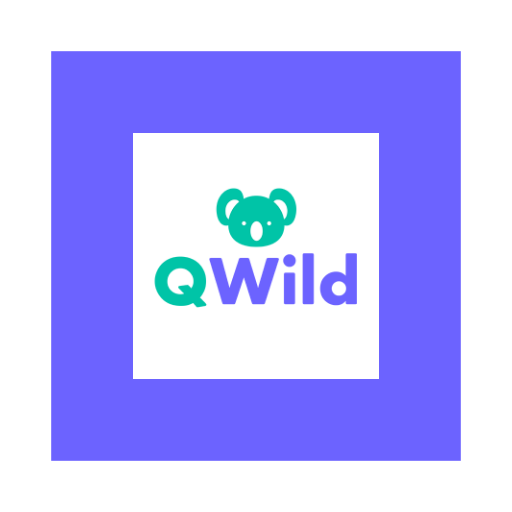
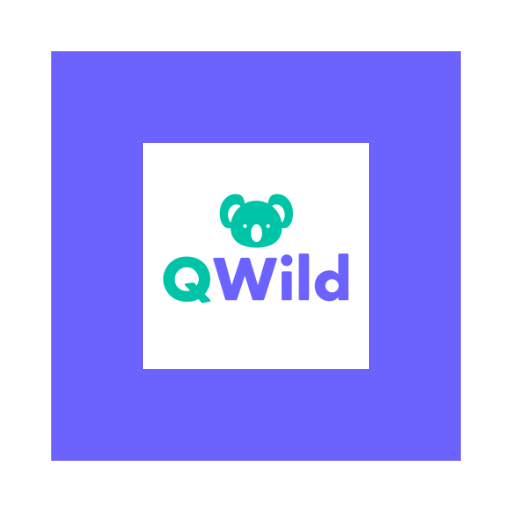
Trying QWild

Changed region(s): [[0.25, 0.25, 0.75, 0.75]]

diff --git a/index.html b/index.html
@@ -26,7 +26,7 @@ crossorigin="anonymous"></script>
   <body style='margin : 0px; overflow: hidden;'>
     <button id="backButton"></button>
     <a-scene embedded arjs>
-      <a-marker type="pattern" url="pattern.patt">
+      <a-marker type="pattern" url="pattern-qwild-square.patt">
         <!-- <a-box position='0 0.5 0' material='color: yellow;'></a-box> -->
         <a-entity 
           obj-model="obj: url(koala.obj); mtl: url(koala.mtl)">
